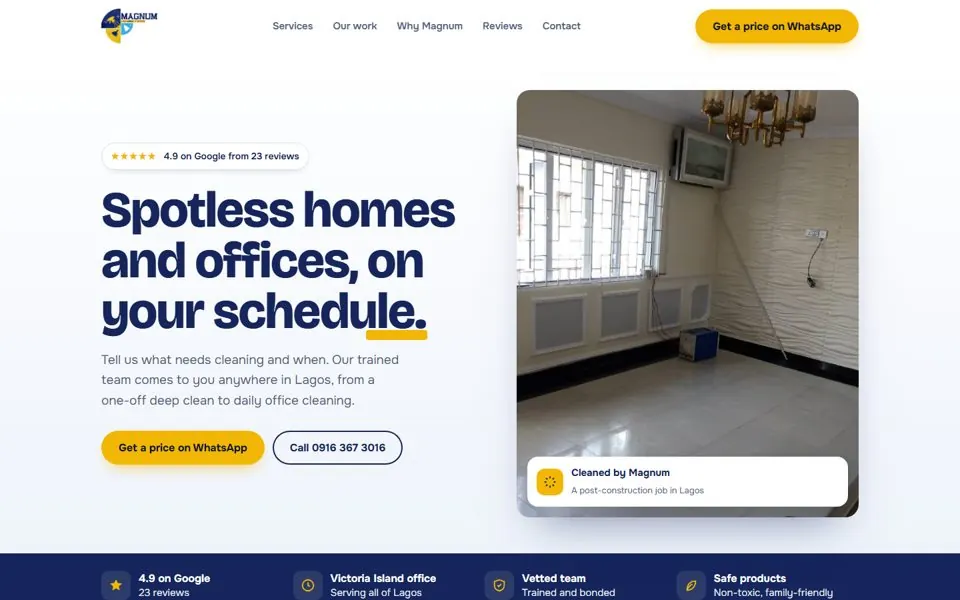
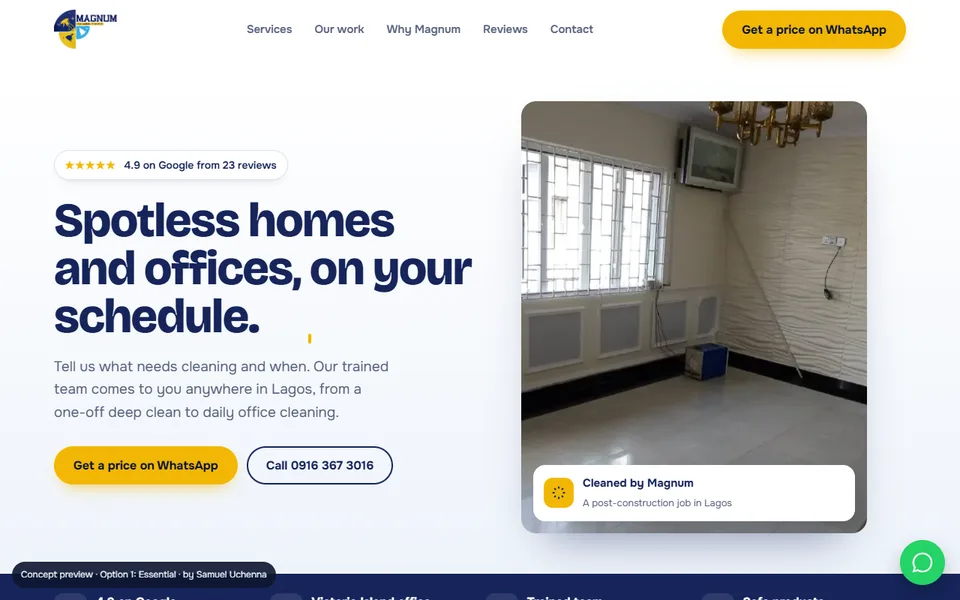
Size pass on all three options and a clearer chooser
Nothing too big on phones: smaller header, logo and menu button, menu links 21px,
headings and numbers capped, cards under the screen height, Option 2 menu logo
no longer stretched, picture height bug from the speed pass fixed (img height auto).
Chooser: 'What each option includes' table and fresh preview pictures.

diff --git a/index.html b/index.html
@@ -19,7 +19,7 @@ p.lead{color:var(--muted);max-width:60ch;font-size:18px}
 a.card{position:relative;display:flex;flex-direction:column;background:#fff;border:1px solid var(--line);border-radius:16px;overflow:hidden;text-decoration:none;color:inherit;transition:transform .15s ease,box-shadow .15s ease}
 a.card:hover{transform:translateY(-2px);box-shadow:0 18px 40px -20px rgba(19,34,79,.45)}
 a.card:focus-visible{outline:3px solid var(--gold);outline-offset:3px}
-a.card img{width:100%;aspect-ratio:16/10;object-fit:cover;object-position:top;border-bottom:1px solid var(--line)}
+a.card img{width:100%;height:auto;aspect-ratio:16/10;object-fit:cover;object-position:top;border-bottom:1px solid var(--line)}
 .in{padding:20px 22px 24px;display:flex;flex-direction:column;gap:6px;flex:1}
 .tag{font-size:13px;font-weight:600;color:var(--muted);text-transform:uppercase;letter-spacing:.08em}
 .in b{font-size:22px;color:var(--navy)}
@@ -29,6 +29,19 @@ a.card.rec{border:2px solid var(--gold);box-shadow:0 30px 60px -30px rgba(19,34,
 .badge2{position:absolute;top:14px;right:14px;background:var(--gold);color:var(--ink);font-weight:700;font-size:13px;border-radius:999px;padding:6px 12px;box-shadow:0 6px 16px rgba(0,0,0,.2)}
 .logo{height:56px;width:auto}
 @media (max-width:860px){.grid{grid-template-columns:1fr}a.card.rec{order:-1}}
+.cmp{margin-top:44px;background:#fff;border:1px solid var(--line);border-radius:16px;overflow:hidden}
+.cmp h2{font-size:22px;color:var(--navy);letter-spacing:-.01em;padding:22px 22px 4px}
+.cmp>p{color:var(--muted);font-size:15px;padding:0 22px 14px}
+.cmp table{width:100%;border-collapse:collapse;font-size:15px}
+.cmp th,.cmp td{padding:12px 14px;border-top:1px solid var(--line);text-align:center;vertical-align:middle}
+.cmp th:first-child,.cmp td:first-child{text-align:left;padding-left:22px}
+.cmp thead th{font-size:13px;text-transform:uppercase;letter-spacing:.08em;color:var(--muted);font-weight:600;background:#fafbfd}
+.cmp thead th.rec{color:var(--navy)}
+.cmp td.rec{background:#fffbea}
+.cmp .y{display:inline-grid;place-items:center;width:22px;height:22px;border-radius:50%;background:var(--navy);color:var(--gold);font-size:13px;font-weight:700}
+.cmp .n{color:#a5afc4}
+.cmp small{display:block;color:var(--muted);font-size:13px;line-height:1.35}
+@media (max-width:600px){.cmp h2{padding:18px 14px 4px}.cmp>p{padding:0 14px 12px}.cmp table{font-size:14.5px}.cmp tr{display:grid;grid-template-columns:repeat(3,minmax(0,1fr));border-top:1px solid var(--line)}.cmp th,.cmp td{border-top:0;padding:8px 6px}.cmp td:first-child{grid-column:1/-1;padding:12px 14px 2px;font-weight:600;color:var(--navy)}.cmp thead th:first-child{display:none}.cmp thead th{font-size:11px;letter-spacing:.06em;padding:10px 4px}.cmp tbody td:not(:first-child){padding-bottom:12px}}
 </style>
 <link rel="icon" type="image/png" href="assets/favicon.webp">
 <meta name="description" content="Magnum Cleaning Services: three website designs. Cleaning, fumigation and soak-away evacuation in Lagos. Call 0916 367 3016.">
@@ -37,12 +50,13 @@ a.card.rec{border:2px solid var(--gold);box-shadow:0 30px 60px -30px rgba(19,34,
 <div class="wrap">
   <div class="top"><img width="708" height="437" class="logo" src="assets/magnum-logo.webp" alt="Magnum Cleaning Service"></div>
   <h1>Three website designs for Magnum</h1>
-  <p class="lead">Each one is complete and works on phones and computers, using your own photos and reviews. Open each, click around, and tell Samuel which one you like best. Option 3 is the full experience we recommend.</p>
+  <p class="lead">Each one is complete and works on phones and computers, using your own photos and reviews. Open each, click around, and tell Samuel which one you like best. Option 3 is the full experience Samuel recommends.</p>
   <div class="grid">
     <a class="card" href="1-essential/"><img loading="lazy" decoding="async" width="960" height="600" src="assets/option-1.webp" alt="Preview of the Essential website"><div class="in"><span class="tag">Option 1</span><b>Essential</b><p>A sharp one-page website that gets people to call or WhatsApp you.</p><span class="go">Open Option 1 →</span></div></a>
     <a class="card" href="2-professional/"><img loading="lazy" decoding="async" width="960" height="600" src="assets/option-2.webp" alt="Preview of the Professional website"><div class="in"><span class="tag">Option 2</span><b>Professional</b><p>A full five-page business website with before-and-after photos and a quote form that goes to your WhatsApp.</p><span class="go">Open Option 2 →</span></div></a>
     <a class="card rec" href="3-premium/"><span class="badge2">★ Recommended</span><img loading="lazy" decoding="async" width="960" height="600" src="assets/option-3.webp" alt="Preview of the Premium website"><div class="in"><span class="tag">Option 3</span><b>Premium</b><p>The complete brand website: six pages, a "Build your clean" price tool, a before-and-after gallery and a page for business contracts.</p><span class="go">Open Option 3 →</span></div></a>
   </div>
+  <section class="cmp" aria-labelledby="cmp-h"><h2 id="cmp-h">What each option includes</h2><p>Every option is built from your own photos, logo and reviews, and works on phones and computers.</p><table><thead><tr><th scope="col">Included</th><th scope="col">Essential</th><th scope="col">Professional</th><th scope="col" class="rec">Premium</th></tr></thead><tbody><tr><td>Pages</td><td>1</td><td>5</td><td class="rec">6</td></tr><tr><td>Call and WhatsApp buttons on every screen</td><td><span class="y" aria-label="Included">✓</span></td><td><span class="y" aria-label="Included">✓</span></td><td class="rec"><span class="y" aria-label="Included">✓</span></td></tr><tr><td>Your 4.9 Google rating and your clients' own words</td><td><span class="y" aria-label="Included">✓</span></td><td><span class="y" aria-label="Included">✓</span></td><td class="rec"><span class="y" aria-label="Included">✓</span></td></tr><tr><td>Your team's photos</td><td><span class="y" aria-label="Included">✓</span></td><td><span class="y" aria-label="Included">✓</span></td><td class="rec"><span class="y" aria-label="Included">✓</span></td></tr><tr><td>Before-and-after photos you drag to compare</td><td><small>one job</small></td><td><small>on three pages</small></td><td class="rec"><small>a full page of jobs</small></td></tr><tr><td>Your services</td><td><small>three groups on one page</small></td><td><small>all 18, on their own page</small></td><td class="rec"><small>all 18, on their own page</small></td></tr><tr><td>A form that opens WhatsApp with the client's details already typed</td><td><span class="n" aria-label="Not included">–</span></td><td><span class="y" aria-label="Included">✓</span></td><td class="rec"><span class="y" aria-label="Included">✓</span><small>"Build your clean", five quick questions</small></td></tr><tr><td>A page for business contracts: offices, estates, hospitals and shops</td><td><span class="n" aria-label="Not included">–</span></td><td><span class="n" aria-label="Not included">–</span></td><td class="rec"><span class="y" aria-label="Included">✓</span></td></tr><tr><td>Common questions answered before they book</td><td><span class="n" aria-label="Not included">–</span></td><td><span class="n" aria-label="Not included">–</span></td><td class="rec"><span class="y" aria-label="Included">✓</span></td></tr><tr><td>Full-screen photos of your real jobs at the top</td><td><span class="n" aria-label="Not included">–</span></td><td><span class="n" aria-label="Not included">–</span></td><td class="rec"><span class="y" aria-label="Included">✓</span></td></tr></tbody></table></section>
   <p style="margin-top:26px"><a href="google-profile-preview.html" style="display:inline-block;padding:12px 18px;border:1.6px solid #d9e0ec;border-radius:12px;background:#fff;color:#13224f;font-weight:700;text-decoration:none">See how your Google page can look</a></p>
   <p class="note">Design previews prepared by Samuel Uchenna for Magnum Cleaning Services. Photos are from Magnum's own Google listing and Instagram. The WhatsApp and call buttons reach Magnum's real numbers.</p>
 </div>

diff --git a/3-premium/style.css b/3-premium/style.css
@@ -383,3 +383,58 @@ h2.big{font-size:clamp(32px,4.2vw,58px);letter-spacing:-.04em;max-width:24ch}
 
 /* steps: a hairline instead of gold dashes */
 .flow::before{background:rgba(255,255,255,.18);height:1px}
+/* ===== size pass (17 Oct 2026): nothing too big on the screen.
+   Samuel: "big big cards, big big numbers, big big texts... the menu button is too big on mobile... the logo in the menu is off".
+   Phone limits: header 64px, logo 32px tall, menu button 42px, menu links 21px, h1 36px, h2 27px, h3 21px, numbers 46px,
+   buttons about 46px tall, no card taller than 60% of the screen. Desktop: h1 72px, numbers 88px, boxes 72% of the screen.
+   Checked by Website playbook\build-client-website\scripts\size_check.js. To go back: _size-pass-backups\before-size-pass-17oct\ */
+.hero h1{font-size:clamp(40px,5.4vw,72px)}
+.phero h1{font-size:clamp(34px,4.4vw,60px)}
+h2.big{font-size:clamp(28px,3.4vw,48px)}
+.final h2{font-size:clamp(26px,2.8vw,40px)}
+.sgroup h2{font-size:clamp(26px,2.8vw,38px)}
+.way h3{font-size:26px}
+.big-score{font-size:88px}
+.show .ba{max-height:min(680px,72vh)}
+.plate{border-radius:12px;padding:6px 10px;box-shadow:none}
+.plate img{height:40px}
+.menu-btn{width:44px;height:44px;border-radius:12px}
+.pmenu .x{width:44px;height:44px;border-radius:12px;font-size:22px;line-height:1}
+.pmenu nav a{font-size:24px;font-weight:600;letter-spacing:-.02em}
+.pmenu nav a::after{font-size:16px}
+@media (max-width:640px){
+  .nav{padding:8px 0}.nav.scrolled{padding:4px 0}
+  .nav .wrap{height:48px}
+  .plate{padding:4px 8px;border-radius:10px}
+  .plate img{height:32px}
+  .menu-btn{width:42px;height:42px}
+  .pmenu{padding:11px 18px 24px}
+  .pmenu .x{width:42px;height:42px}
+  .pmenu nav{margin-top:26px}
+  .pmenu nav a{font-size:21px;padding:15px 0}
+  .pmenu .acts .pill{padding:13px 18px}
+  .hero .wrap{padding-top:104px}
+  .hero h1{font-size:36px;margin:16px 0 16px}
+  .hero .lead{font-size:16.5px}
+  .phero{padding:100px 0 44px}
+  .phero h1{font-size:31px}
+  .phero p{font-size:16.5px}
+  h2.big,.sgroup h2{font-size:27px}
+  .final h2{font-size:25px}
+  .way{min-height:300px}
+  .way h3{font-size:21px}
+  .tile h3,.scard h3,.prom h3,.plan h3,.flow h3{font-size:18px}
+  .big-score{font-size:46px}
+  .pill{padding:13px 20px;font-size:15px}
+  .mbar .pill{padding:12px 10px}
+  body{padding-bottom:70px}
+  .scard.photo img{min-height:0;max-height:none;height:190px}
+  .sector img{aspect-ratio:16/10}
+}
+/* the 15 Oct speed pass wrote width and height on every picture; without this line the browser used that height,
+   so some photos (business sectors) were drawn 684px tall and their cards filled the whole phone screen */
+img{height:auto}
+.bacard .ba{max-height:min(560px,66vh)}
+.bacard .ba.wide{aspect-ratio:2/1}
+.bacard:has(.ba.wide){max-width:860px;margin-left:auto;margin-right:auto}
+@media (max-width:640px){section{padding:64px 0}}

diff --git a/2-professional/style.css b/2-professional/style.css
@@ -292,3 +292,59 @@ textarea{min-height:110px;resize:vertical}
   .panel h3{font-size:28px}
   .sheet header small{display:none}
 }
+
+/* ===== size pass (17 Oct 2026): nothing too big on the screen.
+   Samuel: "big big cards, big big numbers, big big texts... the menu button is too big on mobile... the logo in the menu is off".
+   The menu logo was stretched sideways (height set, width not): fixed with width:auto.
+   Phone limits: header 60px, logo 34px tall, menu button 42px, menu links 21px, h1 36px, h2 27px, h3 21px, numbers 46px,
+   buttons about 46px tall, no card taller than 60% of the screen. Desktop: h1 68px, numbers 64px, boxes 72% of the screen.
+   Checked by Website playbook\build-client-website\scripts\size_check.js. To go back: _size-pass-backups\before-size-pass-17oct\ */
+.hero h1{font-size:clamp(40px,5vw,68px)}
+.phero h1{font-size:clamp(34px,4.2vw,56px)}
+h2{font-size:clamp(28px,3.2vw,44px)}
+.band h2{font-size:clamp(26px,2.8vw,38px)}
+.panel h3{font-size:26px}
+.score b{font-size:64px}
+.panel figure{min-height:380px}
+.ba-card figure,.ba-card .ba{max-height:min(600px,68vh)}
+.pmenu .plate{padding:5px 9px;border-radius:10px}
+.pmenu .plate img{height:34px;width:auto}
+.menu-btn{width:44px;height:44px;border-radius:12px}
+.pmenu .x{width:44px;height:44px;border-radius:12px;font-size:22px;line-height:1}
+.pmenu nav a{font-size:24px;font-weight:700;letter-spacing:-.01em}
+.pmenu nav a::after{font-size:18px}
+@media (max-width:600px){
+  .hdr .wrap{height:60px}
+  .hdr .logo img{height:36px}
+  .catnav{top:60px}
+  .menu-btn{width:42px;height:42px}
+  .pmenu{padding:9px 18px 24px}
+  .pmenu .x{width:42px;height:42px}
+  .pmenu nav{margin-top:24px}
+  .pmenu nav a{font-size:21px;padding:15px 0}
+  .pmenu .acts .btn{padding:13px 18px}
+  .hero h1{font-size:36px}
+  .phero h1{font-size:31px}
+  h2{font-size:27px}
+  .band h2{font-size:24px}
+  .panel h3{font-size:22px}
+  .scard h3,.svc-card h3,.steps h3{font-size:18px}
+  .score b{font-size:46px}
+  .steps>div::before{font-size:30px}
+  .proof b{font-size:28px}
+  .btn{padding:13px 20px;font-size:15px}
+  .mbar .btn{padding:12px 10px}
+  body{padding-bottom:70px}
+  .panel figure{min-height:0;height:200px}
+  .visual{min-height:340px}
+}
+/* the 15 Oct speed pass wrote width and height on every picture; without this line the browser used that height */
+img{height:auto}
+@media (max-width:600px){
+  .panel figure{height:170px}
+  .panel .body{padding:22px 18px}
+  .ticks{gap:9px;margin-bottom:22px}
+  .ticks li{font-size:15.5px}
+}
+@media (max-width:380px){.panel .btn{font-size:14px;padding:12px 14px}}
+@media (max-width:600px){section{padding:60px 0}}

diff --git a/1-essential/index.html b/1-essential/index.html
@@ -216,6 +216,41 @@ footer .bottom{border-top:1px solid rgba(255,255,255,.1);margin-top:40px;padding
   .rating b{font-size:56px}
   footer .cols{grid-template-columns:1fr}
 }
+
+/* ===== size pass (17 Oct 2026): nothing too big on the screen.
+   Samuel: "big big cards, big big numbers, big big texts... the menu button is too big on mobile".
+   Phone limits: header 60px, logo 36px tall, menu button 42px, menu links 21px, h1 36px, h2 27px, numbers 46px,
+   buttons about 46px tall. Desktop: h1 68px, boxes 72% of the screen. Checked by size_check.js. Backup: _size-pass-backups\ */
+h1{font-size:clamp(40px,5vw,68px)}
+h2{font-size:clamp(28px,3.2vw,44px)}
+.rating b{font-size:60px}
+.pane{max-height:min(640px,72vh)}
+.ba-box{max-height:min(600px,72vh)}
+.menu-btn{width:44px;height:44px;border-radius:12px}
+.pmenu .x{width:44px;height:44px;border-radius:12px;font-size:22px;line-height:1}
+.pmenu nav a{font-size:24px;font-weight:700;padding:12px 0}
+@media (max-width:560px){
+  .top .wrap{height:60px}
+  .logo img{height:36px}
+  .menu-btn{width:42px;height:42px}
+  .pmenu{padding:9px 18px 24px}
+  .pmenu .x{width:42px;height:42px}
+  .pmenu nav{gap:0;margin-top:22px}
+  .pmenu nav a{font-size:21px;padding:15px 0}
+  h1{font-size:36px;margin:16px 0 16px}
+  h2{font-size:27px}
+  .band h2{font-size:24px}
+  .card h3{font-size:20px}
+  .rating b{font-size:46px}
+  .lead{font-size:16.5px}
+  .btn{padding:13px 20px;font-size:15px}
+  .mbar a{padding:12px 10px}
+  body{padding-bottom:70px}
+  .card figure{aspect-ratio:16/9}
+  .pane{aspect-ratio:4/3.6}
+}
+/* the 15 Oct speed pass wrote width and height on every picture; without this line the browser used that height */
+img{height:auto}
 </style>
 </head>
 <body>
